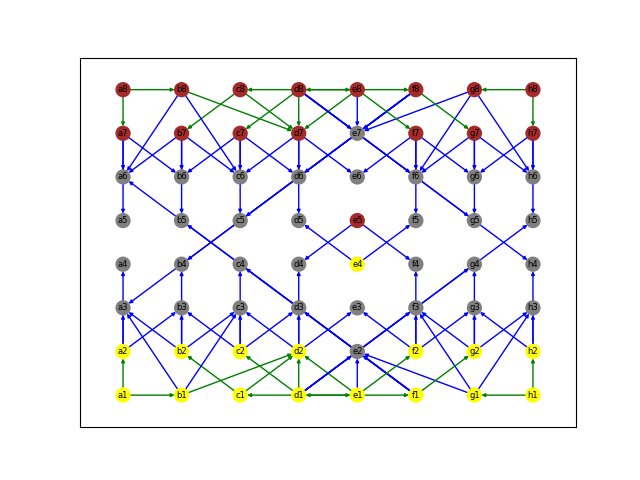
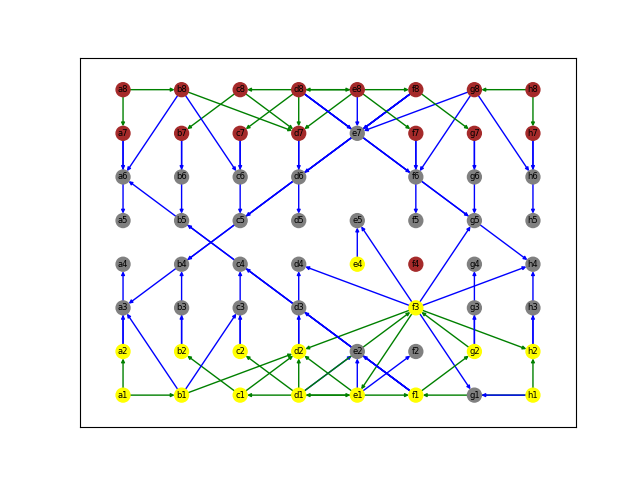
dela

diff --git a/parser.py b/parser.py
@@ -101,9 +101,6 @@ def create_support_network(board, game_num, move_num, result):
             G.AddNode(square)
             G.AddStrAttrDatN(square, color, "color")
 
-        # print()
-        # print(square, color)
-        # print(reach)
         for reachable_square in reach:
             if board.color_at(reachable_square) is None:
                 continue
@@ -153,6 +150,14 @@ def create_mobility_network(board, game_num, move_num, result):
             G.AddNode(square)
             G.AddStrAttrDatN(square, color, "color")
 
+        # dont count sideways pawn attacks if there are no pieces there
+        if board.piece_at(square).piece_type == chess.PAWN:
+            reach_c = reach.copy()
+            for reachable_square in reach:
+                if board.color_at(reachable_square) is None:
+                    reach_c.remove(reachable_square)
+            reach = reach_c
+
         # pawn movement
         if board.piece_at(square).piece_type == chess.PAWN:
             sqr = chess.square_name(square)
@@ -160,9 +165,18 @@ def create_mobility_network(board, game_num, move_num, result):
                 if chess.square_name(move.from_square) == sqr:  # and move.to_square not in reach:
                     reach.add(move.to_square)
 
+            board.turn = not board.turn  # legalne poteze dobi samu stran na potezi, zatu obrnem kdu je na vrsti
+            for move in board.legal_moves:
+                if chess.square_name(move.from_square) == sqr:  # and move.to_square not in reach:
+                    reach.add(move.to_square)
+            board.turn = not board.turn
+
         for reachable_square in reach:
             if board.color_at(reachable_square) is None:
                 s_color = "none"
+                # dont count sideways pawn attacks if there are no pieces there
+                if board.piece_at(square).piece_type == chess.PAWN:
+                    continue
             elif board.color_at(reachable_square):
                 s_color = "white"
             else:
@@ -216,15 +230,26 @@ def create_position_network(board, game_num, move_num, result):
             G.AddNode(square)
             G.AddStrAttrDatN(square, color, "color")
 
+        # dont count sideways pawn attacks if there are no pieces there
+        if board.piece_at(square).piece_type == chess.PAWN:
+            reach_c = reach.copy()
+            for reachable_square in reach:
+                if board.color_at(reachable_square) is None:
+                    reach_c.remove(reachable_square)
+            reach = reach_c
+
         # pawn movement
         if board.piece_at(square).piece_type == chess.PAWN:
             sqr = chess.square_name(square)
             for move in board.legal_moves:
                 if chess.square_name(move.from_square) == sqr: # and move.to_square not in reach:
                     reach.add(move.to_square)
-            for move in board.mirror().legal_moves:
+
+            board.turn = not board.turn # legalne poteze dobi samu stran na potezi, zatu obrnem kdu je na vrsti
+            for move in board.legal_moves:
                 if chess.square_name(move.from_square) == sqr: # and move.to_square not in reach:
                     reach.add(move.to_square)
+            board.turn = not board.turn
 
         for reachable_square in reach:
             if board.color_at(reachable_square) is None:
@@ -325,10 +350,6 @@ def read_network(file):
 #   #  f.close()
 #     break
 
-#read_network("test_support.out")
-#read_network("test_mobility.out")
-read_network("li_new/position_0-2.net")
-
 def get_information(file, elo):
     start = time.time()
     games, results = parser(file, elo)
@@ -379,3 +400,7 @@ def read_pgn_file(file, elo):
 
 
 #read_pgn_file("data/lichess/lichess_db_standard_rated_2017-02.pgn", 2700)
+
+#read_network("test_support.out")
+#read_network("test_mobility.out")
+#read_network("li_new/position_0-5.net")
